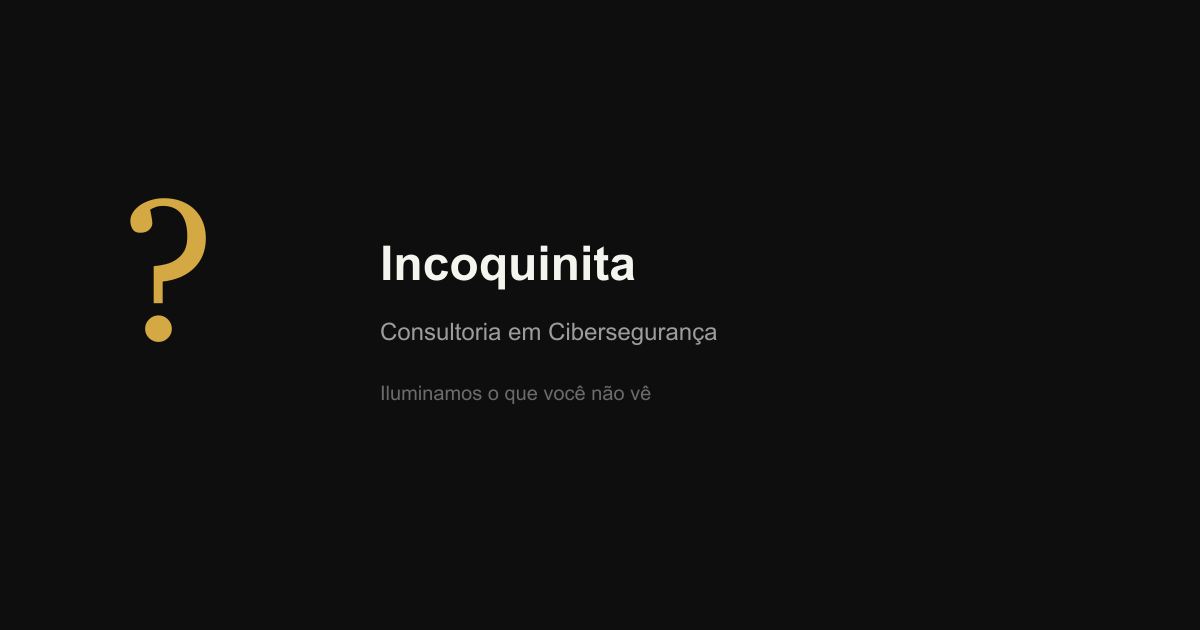
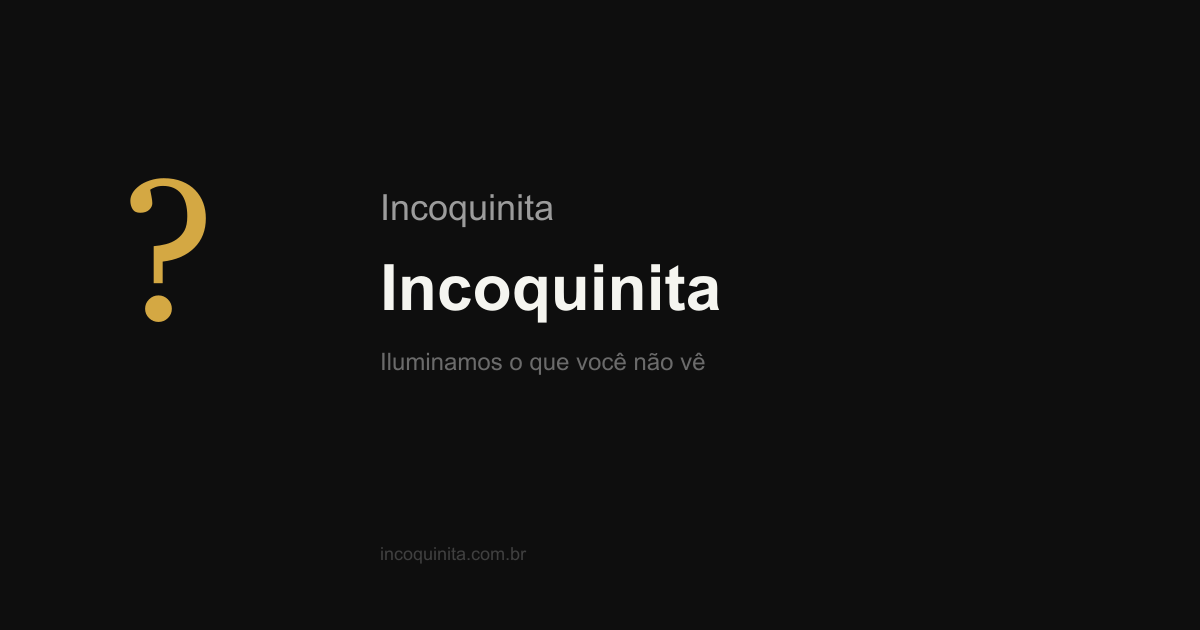
feat(creative): per-page OG images (Sprint F1)
Generated 9 OG images (1200x630) via sharp from SVG templates.
Each page has page-specific openGraph metadata with title, description,
and image. Service pages inherit from default.

diff --git a/app/blog/page.tsx b/app/blog/page.tsx
@@ -6,6 +6,12 @@ export const metadata: Metadata = {
   title: "Blog",
   description:
     "Artigos técnicos sobre cibersegurança, pentest, cloud assessment e mais.",
+  openGraph: {
+    title: "Blog — Incoquinita",
+    description:
+      "Conhecimento técnico e bastidores.",
+    images: ["/og/blog.png"],
+  },
 };
 
 const POSTS = [

diff --git a/app/cases/page.tsx b/app/cases/page.tsx
@@ -6,6 +6,12 @@ export const metadata: Metadata = {
   title: "Cases",
   description:
     "Estudos de caso anonimizados demonstrando nossos resultados em cibersegurança.",
+  openGraph: {
+    title: "Cases — Incoquinita",
+    description:
+      "Resultados que entregam valor real.",
+    images: ["/og/cases.png"],
+  },
 };
 
 const CASES = [

diff --git a/app/metodologia/page.tsx b/app/metodologia/page.tsx
@@ -7,6 +7,12 @@ export const metadata: Metadata = {
   title: "Metodologia",
   description:
     "Como trabalhamos: scoping, execução, relatório, debrief e retest — um processo claro e transparente.",
+  openGraph: {
+    title: "Metodologia — Incoquinita",
+    description:
+      "Processo claro e transparente do início ao fim.",
+    images: ["/og/metodologia.png"],
+  },
 };
 
 const FRAMEWORKS = [

diff --git a/app/recursos/page.tsx b/app/recursos/page.tsx
@@ -6,6 +6,12 @@ export const metadata: Metadata = {
   title: "Recursos",
   description:
     "Whitepapers, checklists e guias gratuitos para melhorar a segurança da sua empresa.",
+  openGraph: {
+    title: "Recursos — Incoquinita",
+    description:
+      "Materiais gratuitos de segurança.",
+    images: ["/og/recursos.png"],
+  },
 };
 
 const RESOURCES = [

diff --git a/app/servicos/page.tsx b/app/servicos/page.tsx
@@ -8,6 +8,12 @@ export const metadata: Metadata = {
   title: "Serviços",
   description:
     "Conheça nossos serviços de cibersegurança: pentest, cloud assessment, segurança wireless e mais.",
+  openGraph: {
+    title: "Serviços — Incoquinita",
+    description:
+      "Pentest, cloud assessment, segurança wireless e mais.",
+    images: ["/og/servicos.png"],
+  },
 };
 
 export default function ServicosPage() {

diff --git a/app/sobre/page.tsx b/app/sobre/page.tsx
@@ -5,6 +5,12 @@ export const metadata: Metadata = {
   title: "Sobre",
   description:
     "Conheça a Incoquinita: nossa história, missão e valores em cibersegurança.",
+  openGraph: {
+    title: "Sobre — Incoquinita",
+    description:
+      "Quem somos e como trabalhamos.",
+    images: ["/og/sobre.png"],
+  },
 };
 
 const VALUES = [